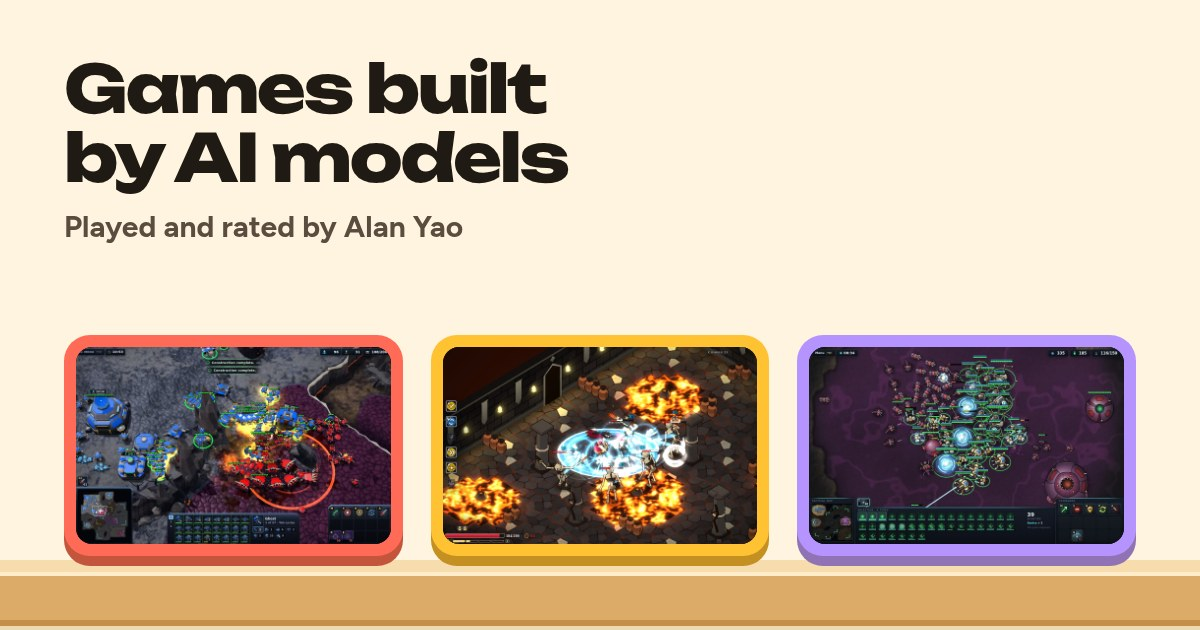
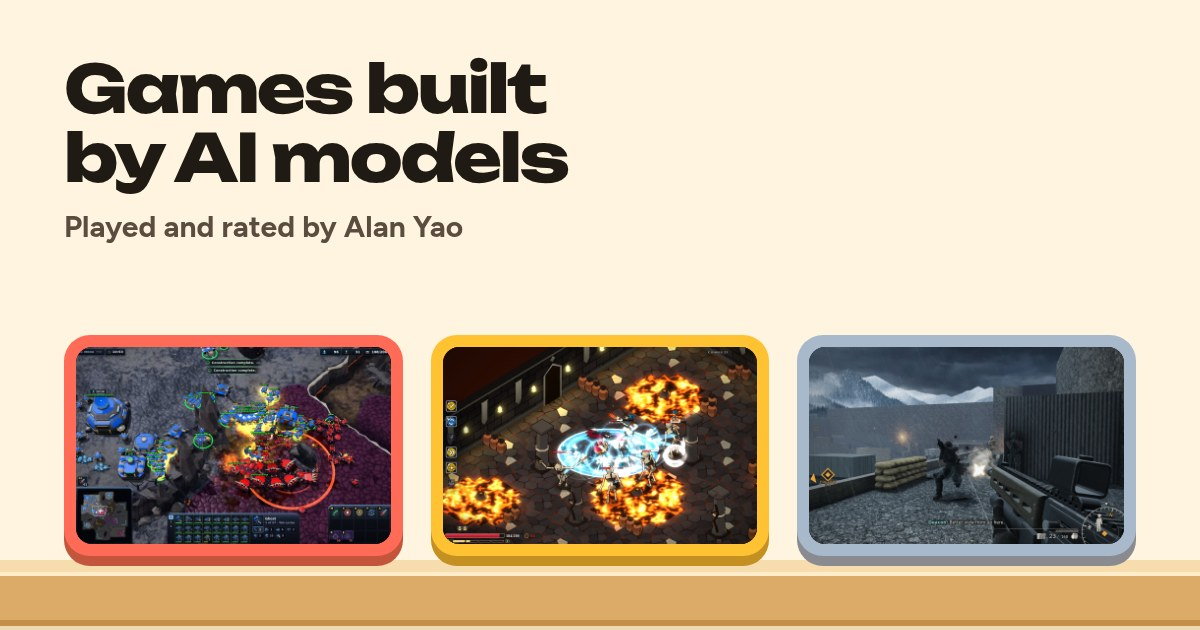
Rate Cordite 7 out of 10

Changed region(s): [[0.6475, 0.5127, 0.9558, 0.9048]]

diff --git a/catalog.js b/catalog.js
@@ -106,10 +106,14 @@ window.CATALOG = {
       "controls": "Mouse and keyboard",
       "model": "Claude Fable 5.x",
       "effort": "ultracode",
-      "score": null,
-      "verdict": "",
-      "review": "",
-      "highlights": [],
+      "score": 7,
+      "verdict": "Impressive for its size. Primitive next to modern shooters.",
+      "review": "Impressive that we even have such a small, full-featured FPS in a browser, but it certainly looks very primitive compared to modern FPS games.",
+      "highlights": [
+        "Full-featured FPS in a browser",
+        "Small",
+        "Looks primitive next to modern FPS games"
+      ],
       "buildTime": "36h 7m",
       "agents": 197,
       "tokens": 9349363234,
